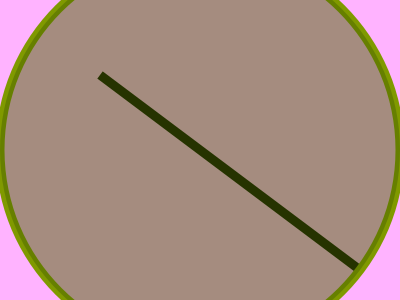
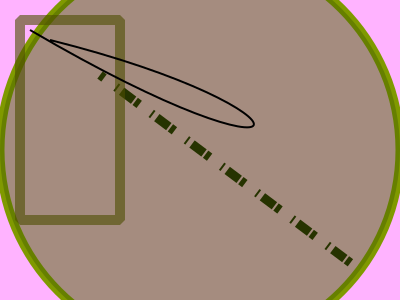
more methods in visualizer

diff --git a/visualizer.py b/visualizer.py
@@ -30,16 +30,6 @@ class Canvas(object):
 		self.bg(self.cr, [1, 0.7, 1])
 		cr.restore()
 
-		# Border
-		'''
-		cr.save()
-		cr.set_line_width( max(cr.device_to_user_distance(2,2)) )
-		cr.set_source_rgb(0,0,0)
-		cr.rectangle(0,0,1,1)
-		cr.stroke()
-		cr.restore()
-		'''
-
 		cr.save()
 		self.line(self.cr)
 		cr.restore()
@@ -47,6 +37,18 @@ class Canvas(object):
 		cr.save()
 		self.circle(self.cr)
 		cr.restore()
+
+		cr.save()
+		self.rectangle(self.cr)
+		cr.restore()
+
+		cr.save()
+		self.bezier(self.cr)
+		cr.restore()
+
+		#cr.save()
+		#self.pat(self.cr)
+		#cr.restore()
 
 		# Save
 		self.surface.write_to_png('images/' + filename + '.png')
@@ -65,9 +67,18 @@ class Canvas(object):
 	def line(self, cr):
 		cr.set_source_rgb(0,0,0)
 		cr.set_line_width(9)
+		cr.set_dash([5, 15, 2]) # [on, off, on]
+		#cr.set_line_cap(cairo.LINE_CAP_SQUARE) # or BUTT, ROUND
 
 		cr.move_to(.25 * self.width,.25 * self.height)
 		cr.line_to(0.9 * self.width,0.9 * self.height)
+		cr.stroke()
+
+	def rectangle(self, cr):
+		cr.set_line_width(10)
+		cr.set_source_rgba(.3,.3,0,0.6)
+		cr.set_line_join(cairo.LINE_JOIN_BEVEL)
+		cr.rectangle(20,20,100,200)
 		cr.stroke()
 
 	def circle(self, cr):
@@ -77,7 +88,7 @@ class Canvas(object):
 
 		w,h = self.get_size() # check
 
-		cr.translate(w/2, h/2)
+		cr.translate(w/2, h/2) # or change scale between the 2 values to get ellipse
 		cr.arc(0,0,.5 * w,0,2*math.pi)
 		cr.stroke_preserve()
 
@@ -85,40 +96,24 @@ class Canvas(object):
 		cr.fill()
 		#cr.restore()
 
+	def bezier(self, cr):
+		cr.move_to(30,30)
+		cr.curve_to(320, 200, 330, 110, 50, 40)
+		cr.stroke()
+
+	# for complex shapes, successively move_to and curve_to next
+	# point in an array of points
+
+	def pat(self, cr):
+		sr1 = cairo.ImageSurface.create_from_png("pat-ex.png")
+		pt1 = cairo.SurfacePattern(sr1)
+		pt1.set_extend(cairo.EXTEND_REPEAT)
+
+		cr.set_source(pt1)
+		cr.rectangle(50,70,200,200)
+		cr.fill()
+
 
 c = Canvas('cairo_test3', 400, 300)
 
-'''
-# Sets color and transparency
-cr.set_source_rgba(r,g,b,a)
-
-cr.move_to(0.25,0.25) # start point
-cr.line_to(1,1) # end point
-cr.set_line_width(0.2)
-cr.stroke() # makes mark
-
-cr.rectangle(0,0,0.5,0.5)
-cr.set_source_rgba(1,0,0,0.8)
-cr.fill()
-'''
-
-'''surface = cairo.SVGSurface('cairo_test.svg', 300, 300)
-cr = cairo.Context(surface)
-
-cr.set_source_rgb(0.9,0.9,0.9)
-cr.paint()
-
-x,y,w,h = 40,40,80,24
-
-cr.set_source_rgb(0.6,0.6,0.6)
-cr.rectangle(x,y,w,h)
-cr.stroke()
-
-cr.save() # necessary?
-cr.set_source_rgb(.2,.3,.4)
-cr.rectangle(x,y,w,h)
-cr.clip()
-cr.paint()
-cr.restore()
-'''
 

diff --git a/reader.py b/reader.py
@@ -108,7 +108,7 @@ e1_words = clean_words(e1)
 e2_words = clean_words(e2)
 
 all_words = e1_words.copy()
-all_words.extend(e2_words.copy())
+all_words.extend(e2_words.copy()) # => content determines shapes
 
 e1_vocab = set(e1_words)
 e2_vocab = set(e2_words)
